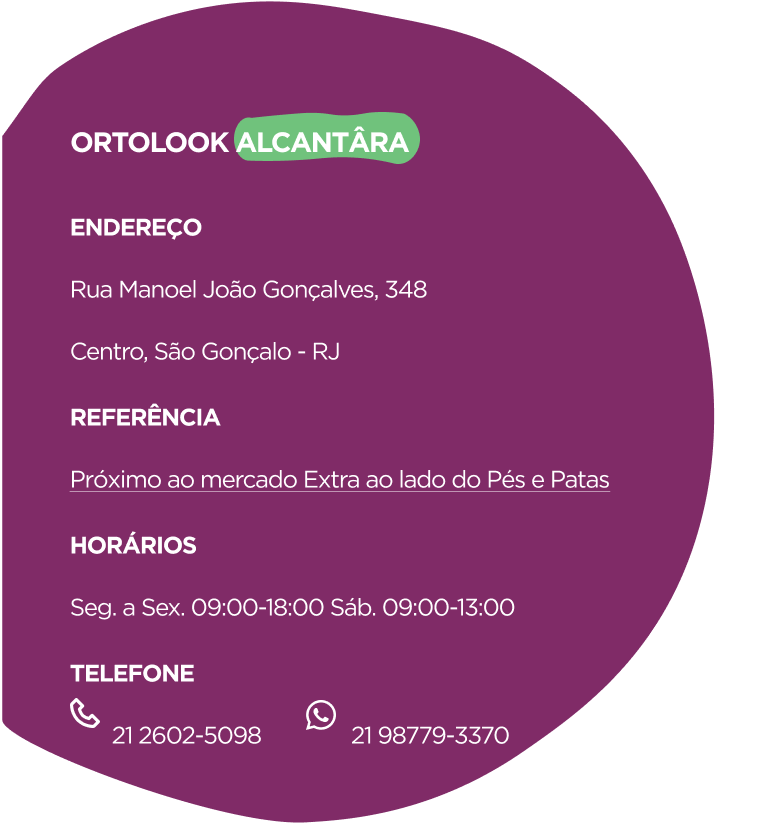
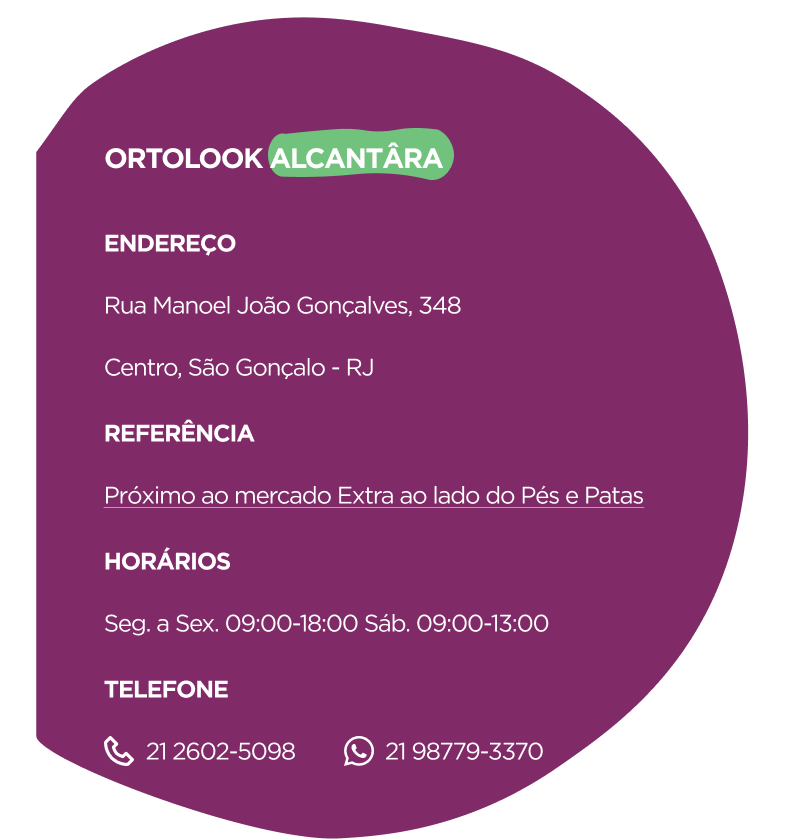
wpp e telefone dentistas

diff --git a/src/components/Estetica/5UnidadesEstetica/styles.js b/src/components/Estetica/5UnidadesEstetica/styles.js
@@ -402,17 +402,17 @@ export const Contentor = styled.div`
   }
   @media only screen and (max-width: 600px) {
     .telURL {
-      bottom: 100px;
-      left: 40%;
+      bottom: 50px;
+      left: 10%;
       height: 50px;
-      width: 70px;
+      width: 80px;
     }
     .wppURL {
       position: absolute;
-      bottom: 100px;
-      left: 65%;
+      bottom: 50px;
+      left: 35%;
       height: 50px;
-      width: 80px;
+      width: 100px;
     }
   }
 `
